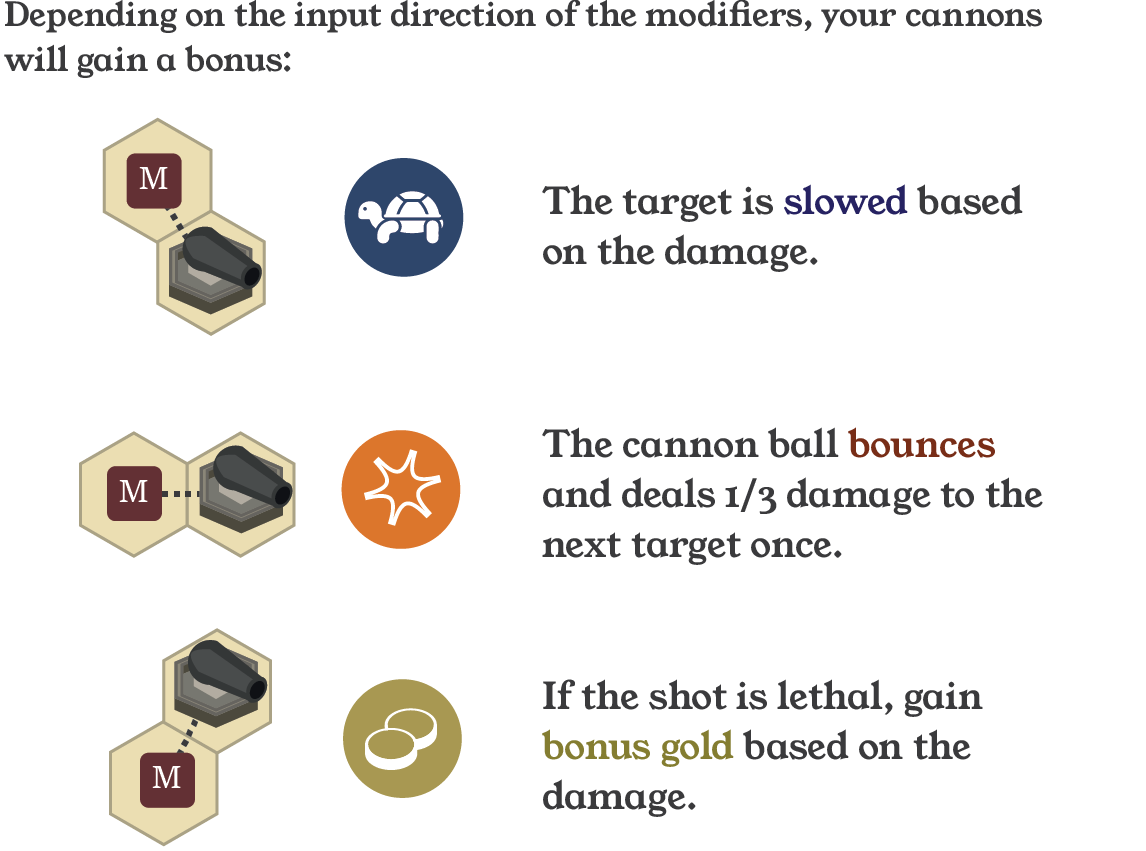
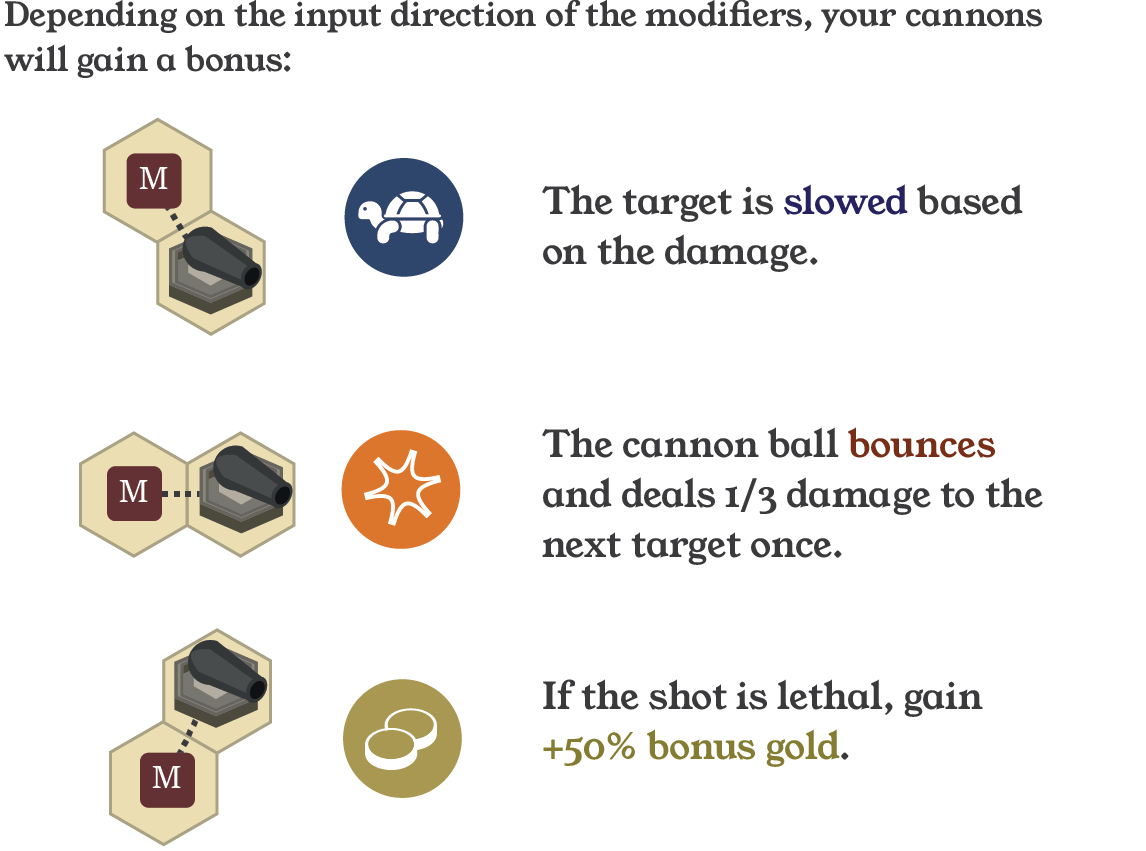
Adjusted a lot. Gold summary given at next level UI.

Changed region(s): [[0.4581, 0.8555, 0.8551, 0.9777]]

diff --git a/Assets/Scripts/chains/ChainControler.cs b/Assets/Scripts/chains/ChainControler.cs
@@ -541,53 +541,22 @@ public class ChainControler : MonoBehaviour
                     yield return (rollingDelay);
                 }
             }
-                
-
-            //float slowing_effect;
+            
             LinkedListNode<MyTile> curr = currChain.tileChain.Last;
             LinkedListNode<MyTile> temp = currChain.tileChain.Last;
-            //float minSlowingFactor = 0.2f;
-            //float maxSlowingFactor = 0.8f;
-            //float newSpeed = 1.5f;
-            //bool isSlowed = false;
 
             while (curr != null)
             {
                 if (curr.Value.tileType == MyTile.TileType.COIN || curr.Value.tileType == MyTile.TileType.DICE)
                 {
                     curr.Value.modifier.Roll();
-                    if (curr != null && curr.Next != null)
-                    {
-                        /*if (curr.Value.tileType == MyTile.TileType.DICE && curr.Next.Value.tileType == MyTile.TileType.DICE)
-                        {
-                            isSlowed = true;
-                            Debug.Log("Found 2 dice");
-
-                            slowing_effect = (float)currChain.chainSum;
-
-                            float slowingFactor = Mathf.Lerp(minSlowingFactor, maxSlowingFactor, (slowing_effect - 2) / 10.0f);
-                            if (slowing_effect == 0)
-                            {
-                                newSpeed = 1.5f;
-                            }
-                            else
-                            {
-                                newSpeed = 1.5f * (1.0f - slowingFactor);
-                            }
-                            // this shouldn't be hardcoded
-                            Debug.Log($"Dice sum:{slowing_effect}, new speed:{newSpeed}");
-                        }*/
-                    }
-
                     curr.Value.modifier.calculateCurrentTotal(curr.Next == null ? null : curr.Next.Value.modifier);
                     curr.Value.modifier.ChangeAnimation();
                     curr.Value.modifier.activateCanvas();
-
                     
                     yield return new WaitForSeconds(rollingDelay);
                     if (GameManager.instance.currentGameState != GameState.GS_BATTLE)
                     {
-                        Debug.Log("Waiting");
                         resetAnimations();
                         while (GameManager.instance.currentGameState != GameState.GS_BATTLE)
                         {
@@ -600,7 +569,7 @@ public class ChainControler : MonoBehaviour
                 }
 
                 resetAnimations();
-                if (curr.Previous == null)
+                if (curr.Previous == null) //We are at the end of the chain, meaning it must be a cannon
                 {
                     if (curr.Value.tileType == MyTile.TileType.CANNON)
                     {
@@ -618,11 +587,12 @@ public class ChainControler : MonoBehaviour
                         //curr.Value.cannon.setShootingDamage(myChains[myChains.Count - 1].chainSum);
                         
                         bool hasNoModifiersInChain = false;
+                        yield return new WaitForSeconds(singleCannonExtraDelay);
                         if (currChain.tileChain.Count == 1)
                         {
                             Debug.Log("Just one");
                             hasNoModifiersInChain = true;
-                            yield return new WaitForSeconds(singleCannonExtraDelay);
+                            
                             curr.Value.cannon.setDamageAsBaseDamage();
                             //curr.Value.cannon.setSlowingEffect(newSpeed);
                         }
@@ -641,9 +611,6 @@ public class ChainControler : MonoBehaviour
                                 //var direction = ChainGenerator.Direction.TOP_LEFT;
                                 curr.Value.cannon.resetEffects();
                                 curr.Value.cannon.setHasSlowingEffect(true);
-                                //curr.Value.cannon.setSlowingEffect(newSpeed);
-                                Debug.Log("CHAIN INPUT TOP LEFT");
-                                //curr.Value.cannon.SetBonusIcon(direction);
                             }
                             else if (curr.Next.Value == curr.Value.GetNeighbourAt(1))
                                 
@@ -651,46 +618,34 @@ public class ChainControler : MonoBehaviour
                                 //var direction = ChainGenerator.Direction.TOP_RIGHT;
                                 curr.Value.cannon.resetEffects();
                                 curr.Value.cannon.setHasSlowingEffect(true);
-                                //curr.Value.cannon.setSlowingEffect(newSpeed);
-                                Debug.Log("CHAIN INPUT TOP RIGHT");
-                                //curr.Value.cannon.SetBonusIcon(direction);
                             }
                                 
                             else if (curr.Next.Value == curr.Value.GetNeighbourAt(2))
                                 
                             {
                                 //var direction = ChainGenerator.Direction.MIDDLE_LEFT;
-                                Debug.Log("CHAIN INPUT MIDDLE LEFT");
                                 curr.Value.cannon.resetEffects();
                                 curr.Value.cannon.setIsBouncy(true);
-                                //curr.Value.cannon.SetBonusIcon(direction);
+                                
                             }
                             else if (curr.Next.Value == curr.Value.GetNeighbourAt(3))
                                
                             {
                                 //var direction = ChainGenerator.Direction.MIDDLE_RIGHT;
-                                Debug.Log("CHAIN INPUT MIDDLE RIGHT");
                                 curr.Value.cannon.resetEffects();
                                 curr.Value.cannon.setIsBouncy(true);
-                                //curr.Value.cannon.SetBonusIcon(direction);
                             }
                             else if (curr.Next.Value == curr.Value.GetNeighbourAt(4))
-                                //direction = ChainGenerator.Direction.BOTTOM_LEFT;
                             {
                                 //var direction = ChainGenerator.Direction.BOTTOM_LEFT;
-                                Debug.Log("CHAIN INPUT BOTTOM LEFT");
                                 curr.Value.cannon.resetEffects();
                                 curr.Value.cannon.setHasBonus(true);
-                                //curr.Value.cannon.SetBonusIcon(direction);
                             }
                             else if (curr.Next.Value == curr.Value.GetNeighbourAt(5))
-                                
                             {
                                 //var direction = ChainGenerator.Direction.BOTTOM_RIGHT;
-                                Debug.Log("CHAIN INPUT BOTTOM RIGHT");
                                 curr.Value.cannon.resetEffects();
                                 curr.Value.cannon.setHasBonus(true);
-                                //curr.Value.cannon.SetBonusIcon(direction);
                             }
                             else
                             {
@@ -718,10 +673,8 @@ public class ChainControler : MonoBehaviour
                         }
                         curr.Value.cannon.deactivateCanvas();
                     }
-                    //curr.Value.cannon.setShootingDamage(10);
-
                 }
-                else if (curr.Previous.Previous == null)
+                else if (curr.Previous.Previous == null) //The last modifier in the chain?
                 {
                     currChain.chainSum = curr.Value.modifier.getCurrentTotal();
                 }

diff --git a/Assets/Scripts/GameManager.cs b/Assets/Scripts/GameManager.cs
@@ -77,11 +77,11 @@ public class GameManager : MonoBehaviour
         enemiesHp[1].Add(32);
         enemiesHp[1].Add(42);
         
-        enemiesHp[2].Add(12);
-        enemiesHp[2].Add(30);
-        enemiesHp[2].Add(40);
+        enemiesHp[2].Add(22);
+        enemiesHp[2].Add(32);
+        enemiesHp[2].Add(44);
         
-        enemiesHp[3].Add(13);
+        enemiesHp[3].Add(18);
         enemiesHp[3].Add(35);
         enemiesHp[3].Add(45);
 
@@ -282,6 +282,15 @@ public class GameManager : MonoBehaviour
         inGameCanvas.enabled = (currentGameState == GameState.GS_PREPARE || currentGameState == GameState.GS_WAIT);
         inGameUI.SetReadyButtonActive(currentGameState == GameState.GS_PREPARE);
         levelWonUI.SetActive(currentGameState == GameState.GS_LEVEL_COMPLETED);
+        if (currentGameState == GameState.GS_LEVEL_COMPLETED)
+        {
+            int levelCompleteGold = ((currentLevel+1) * 5);
+            LevelWonUIController levelWonUIController = levelWonUI.GetComponent<LevelWonUIController>();
+            levelWonUIController.ShowGoldStatus(MarketManager.instance.Gold, levelCompleteGold);
+            MarketManager.instance.earnGold(levelCompleteGold); //Earn some gold for the next level.
+        }
+
+        
         settingsUI.SetActive(currentGameState == GameState.GS_SETTINGS);
     }
 
@@ -361,8 +370,6 @@ public class GameManager : MonoBehaviour
         }
         else
         {
-            
-            MarketManager.instance.earnGold(30+(currentLevel*5)); //Earn some gold for the next level.
             //chainControler.resetAnimations();
             Debug.Log(currentLevel + " now");
             levelsLayout[currentLevel].SetActive(false);

diff --git a/Assets/Scripts/enemies/CaptainShip.cs b/Assets/Scripts/enemies/CaptainShip.cs
@@ -9,11 +9,12 @@ public class CaptainShip : EnemyController
     private bool isSlowed = false;
     public GameObject pirateShipPrefab;
     private Vector3 spawnOffset = new Vector3(1f, -1f, 0f);  
-    private float spawnInterval = 15f;  
+    private float spawnInterval = 10f;
     private float initialDelay = 10f;   // Initial delay before starting the spawn routine
     private List<Transform> enemies;
     private EnemyWave wave;
     private GameObject shipPrefab;
+    private int initHealth;
 
     public void Start()
     {
@@ -22,6 +23,7 @@ public class CaptainShip : EnemyController
         base.Start();
         //base.ApplyHealthAddition();
         //base.ApplySpeedMultiplication();
+        initHealth = health;
         Prepare();
         StartCoroutine(SpawnEnemyRoutine());  
     }
@@ -85,7 +87,12 @@ public class CaptainShip : EnemyController
             {
                 GameObject[] remainingWaypoints = new GameObject[waypoints.Length - currentWaypoint];
                 Array.Copy(waypoints, currentWaypoint, remainingWaypoints, 0, remainingWaypoints.Length);
-                normalShip.InitializeHealth(5, false);
+                int childHealth = (int)(initHealth * 0.3f);//Get 20% of captainships initial HP.
+                if (childHealth < 2)
+                {
+                    childHealth = 2;
+                }
+                normalShip.InitializeHealth(childHealth, false);
                 normalShip.InitializeWaypoints(remainingWaypoints,0);
 
             }

diff --git a/Assets/Scripts/UIControllers/LevelWonUIController.cs b/Assets/Scripts/UIControllers/LevelWonUIController.cs
@@ -5,6 +5,9 @@ class LevelWonUIController : MonoBehaviour
 {
     private VisualElement root;
 
+    private Label currentGoldLabel;
+    private Label levelCompleteGoldLabel;
+    private Label newTotalGoldLabel;
     private void OnEnable()
     {
         root = GetComponent<UIDocument>().rootVisualElement;
@@ -13,10 +16,20 @@ class LevelWonUIController : MonoBehaviour
         {
             nextLevelButton.RegisterCallback<ClickEvent>(ev => OnNextLevelButtonClick());
         }
+        currentGoldLabel = root.Q<Label>("CurrentGoldLabel");
+        levelCompleteGoldLabel = root.Q<Label>("LevelCompleteGoldLabel");
+        newTotalGoldLabel = root.Q<Label>("NewTotalGoldLabel");
     }
     private void OnNextLevelButtonClick()
     {
         Debug.Log("next");
         GameManager.instance.NextLevel();
+    }
+
+    public void ShowGoldStatus(int currentGold, int levelCompleteGold)
+    {
+        currentGoldLabel.text = currentGold.ToString();
+        levelCompleteGoldLabel.text = levelCompleteGold.ToString();
+        newTotalGoldLabel.text = (currentGold + levelCompleteGold).ToString();
     }
 }

diff --git a/Assets/Scripts/enemies/Mermaid.cs b/Assets/Scripts/enemies/Mermaid.cs
@@ -7,7 +7,7 @@ public class Mermaid : EnemyController
 {
     private bool stealth;
     private float stealthDuration = 1f;  // 1 seconds in stealth
-    private float nonStealthDuration = 4.5f; // 5 seconds out of stealth
+    private float nonStealthDuration = 3f; // 3 seconds out of stealth
     private float fadeAmount = 0.3f;
     private SpriteRenderer spriteRenderer;
     [SerializeField] private ParticleSystem splashParticles;

diff --git a/Assets/Scripts/enemies/EnemyWave.cs b/Assets/Scripts/enemies/EnemyWave.cs
@@ -13,7 +13,7 @@ public class EnemyWave : MonoBehaviour
     private float maxY = 0.5f;
     private float spaceMultiplier = 5f;
     private float minX;
-    private float xOffset = 5.0f;
+    private float xOffset = 3.5f;
     List<Transform> enemies = new List<Transform>();
 
     private static EnemyWave _instance;

diff --git a/Assets/Scripts/store/MarketManager.cs b/Assets/Scripts/store/MarketManager.cs
@@ -18,7 +18,7 @@ public class MarketManager : MonoBehaviour
     {
         get => gold;
     }
-    private const int GOLD_AT_BEGINNING = 30;
+    private const int GOLD_AT_BEGINNING = 20;
     private Dictionary<Items, int> prices = new Dictionary<Items, int>();
     public Dictionary<Items, int> Prices
     {

diff --git a/Assets/Scripts/cards/CardRollerManager.cs b/Assets/Scripts/cards/CardRollerManager.cs
@@ -266,7 +266,7 @@ public class CardRollManager : MonoBehaviour
 
     void RollCard()
     {
-        audioSource.PlayOneShot(cardFlip, audioSource.volume);
+        //audioSource.PlayOneShot(cardFlip, audioSource.volume);
 
 
         int remainingHP = hp - drawnTotal;

diff --git a/Assets/Scripts/UIControllers/GameUIController.cs b/Assets/Scripts/UIControllers/GameUIController.cs
@@ -147,6 +147,7 @@ class GameUIController : MonoBehaviour
         }
         
         UpdateFFButtonVisibility();
+        UpdateFFButtonText();
 
     }
 
